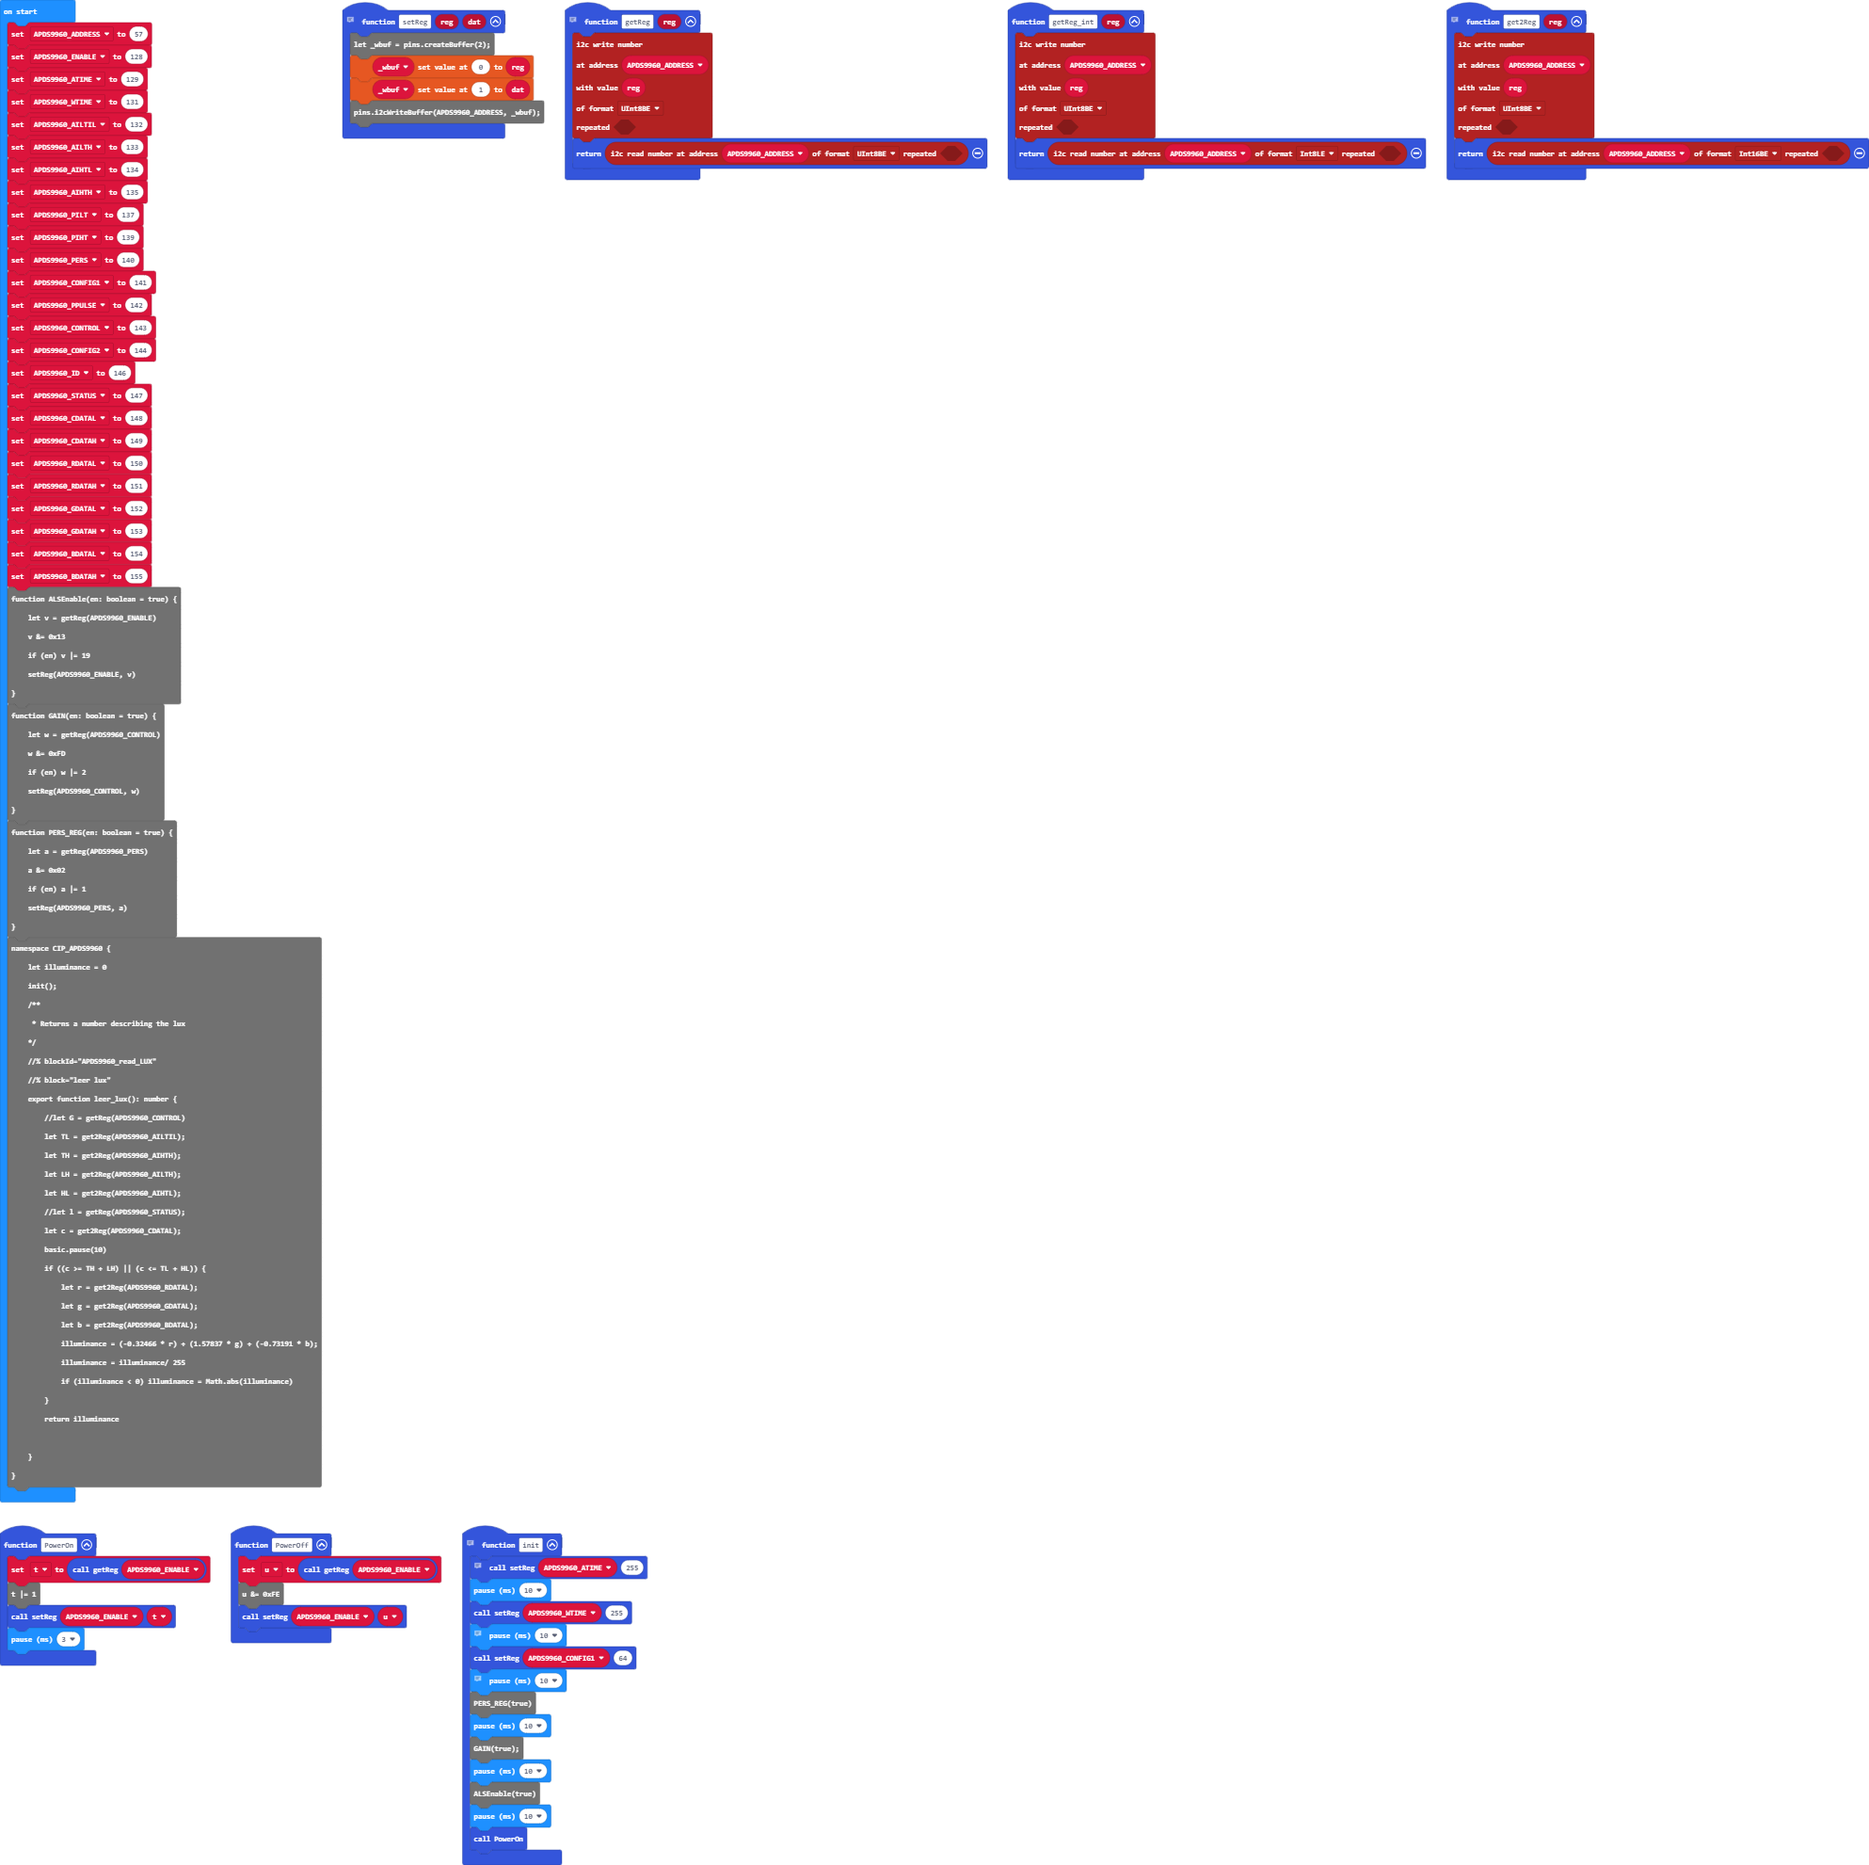
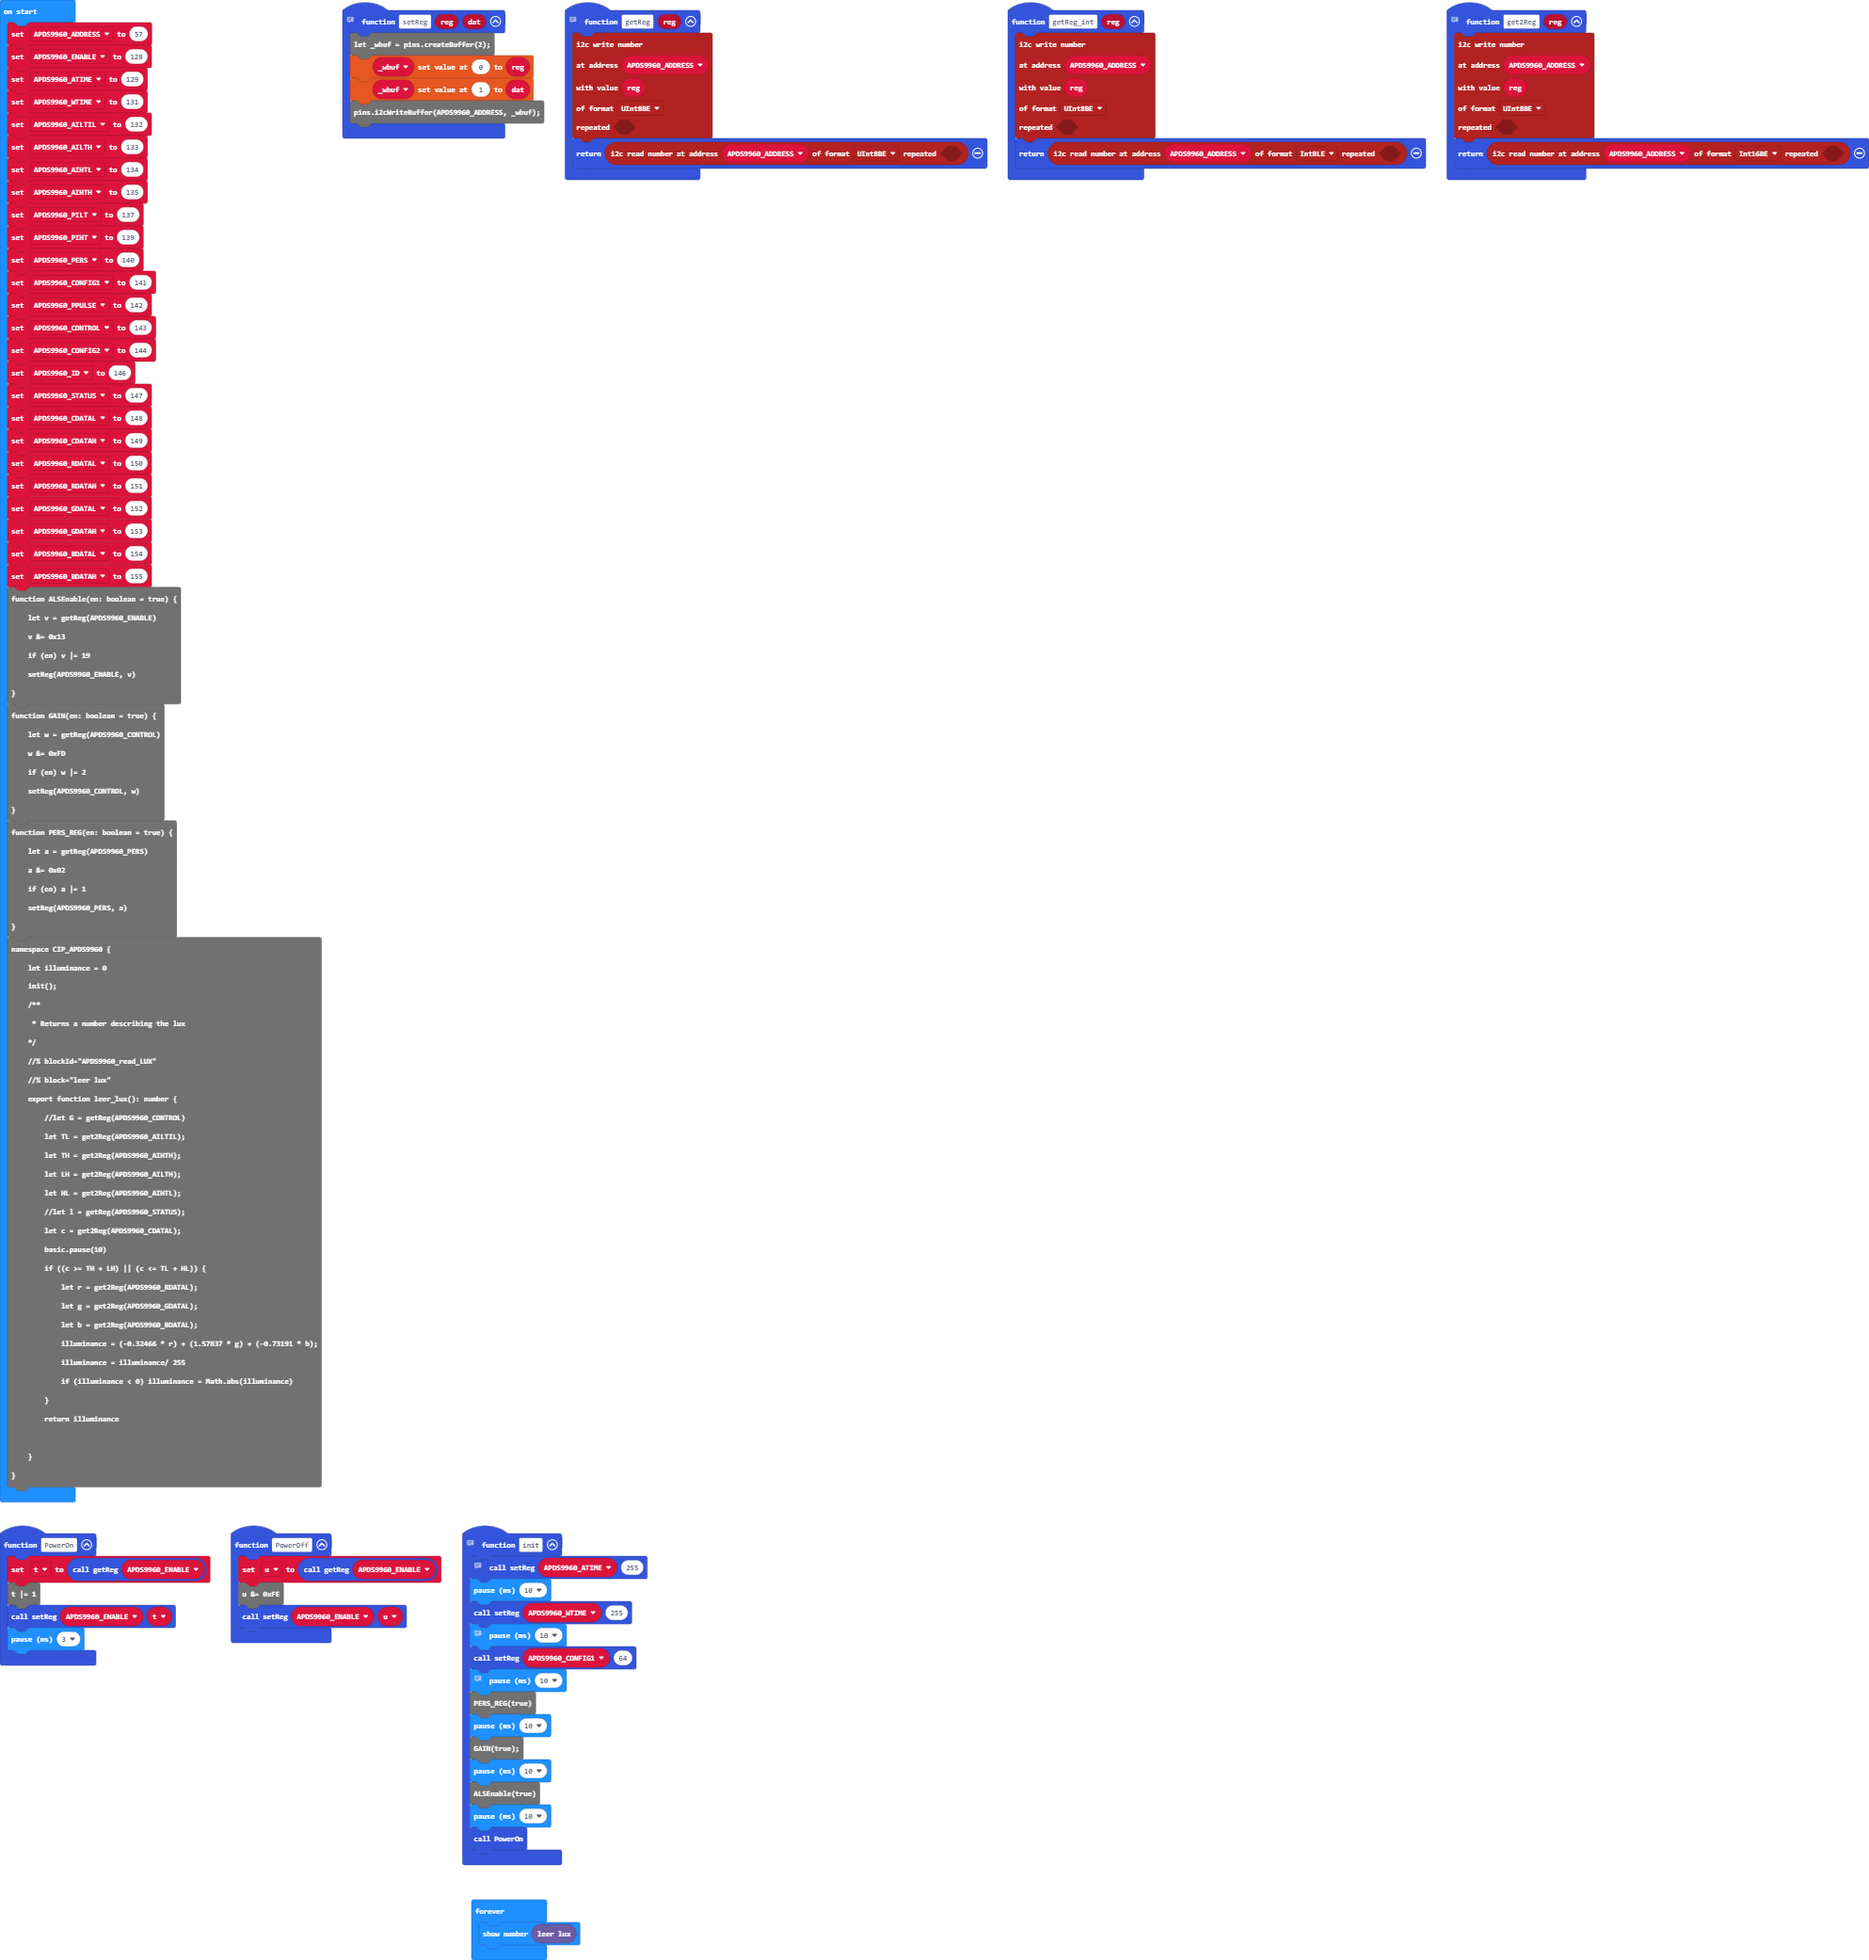
Update main.blocks, main.ts

Changed region(s): [[0.0, 0.0, 0.3434, 1.0], [0.1873, 0.0, 1.0, 0.1232], [0.0937, 0.4619, 0.1873, 0.5235]]

diff --git a/main.ts b/main.ts
@@ -1,124 +1,126 @@
-function getReg_int (reg: number) {
-    pins.i2cWriteNumber(
-    APDS9960_ADDRESS,
-    reg,
-    NumberFormat.UInt8BE,
-    false
-    )
-    return pins.i2cReadNumber(APDS9960_ADDRESS, NumberFormat.Int8LE, false)
-}
-function PowerOff () {
-    u = getReg(APDS9960_ENABLE)
-    u &= 0xFE
-setReg(APDS9960_ENABLE, u)
-}
-// WaitEnable(true)
-function init () {
-    // ATIME(256 - 8)
-    // setReg(APDS9960_ENABLE, 0)
-    setReg(APDS9960_ATIME, 255)
-    basic.pause(10)
-    setReg(APDS9960_WTIME, 255)
-    // setReg(APDS9960_PERS, 0x22)
-    basic.pause(10)
-    setReg(APDS9960_CONFIG1, 64)
-    // setReg(APDS9930_PPULSE, 8)
-    // setReg(APDS9960_CONTROL, 0x2C)
-    basic.pause(10)
-    PERS_REG(true)
-basic.pause(10)
-    GAIN(true);
-basic.pause(10)
-    ALSEnable(true)
-basic.pause(10)
-    PowerOn()
-}
-// get a reg
-function getReg (reg: number) {
-    pins.i2cWriteNumber(
-    APDS9960_ADDRESS,
-    reg,
-    NumberFormat.UInt8BE,
-    false
-    )
-    return pins.i2cReadNumber(APDS9960_ADDRESS, NumberFormat.UInt8BE, false)
-}
-// set APDS9960's reg
-function setReg (reg: number, dat: number) {
+const APDS9960_ADDRESS = 0x39
+const APDS9960_ENABLE = 0x80
+const APDS9960_ATIME = 0x81
+const APDS9960_WTIME = 0x83
+const APDS9960_AILTIL = 0x84
+const APDS9960_AILTH = 0x85
+const APDS9960_AIHTL = 0x86
+const APDS9960_AIHTH = 0x87
+const APDS9960_PILT = 0x89
+const APDS9960_PIHT = 0x8B
+const APDS9960_PERS = 0x8C
+const APDS9960_CONFIG1 = 0x8D
+const APDS9960_PPULSE = 0x8E
+const APDS9960_CONTROL = 0x8F
+const APDS9960_CONFIG2 = 0x90
+const APDS9960_ID = 0x92
+const APDS9960_STATUS = 0x93
+const APDS9960_CDATAL = 0x94
+const APDS9960_CDATAH = 0x95
+const APDS9960_RDATAL = 0x96
+const APDS9960_RDATAH = 0x97
+const APDS9960_GDATAL = 0x98
+const APDS9960_GDATAH = 0x99
+const APDS9960_BDATAL = 0x9A
+const APDS9960_BDATAH = 0x9B
+
+
+/**
+   * set APDS9960's reg
+   */
+function set_Reg_lux(reg: number, dat: number): void {
     let _wbuf = pins.createBuffer(2);
-_wbuf[0] = reg
-    _wbuf[1] = dat
+    _wbuf[0] = reg;
+    _wbuf[1] = dat;
     pins.i2cWriteBuffer(APDS9960_ADDRESS, _wbuf);
 }
-function PowerOn () {
-    t = getReg(APDS9960_ENABLE)
+
+/**
+ * get a reg
+ */
+function get_Reg_lux(reg: number): number {
+    pins.i2cWriteNumber(APDS9960_ADDRESS, reg, NumberFormat.UInt8BE);
+    return pins.i2cReadNumber(APDS9960_ADDRESS, NumberFormat.UInt8BE);
+}
+
+
+function getReg_int(reg: number): number {
+    pins.i2cWriteNumber(APDS9960_ADDRESS, reg, NumberFormat.UInt8BE);
+    return pins.i2cReadNumber(APDS9960_ADDRESS, NumberFormat.Int8LE);
+}
+
+/**
+ * get two reg, UInt16LE format
+ */
+function get2Reg_lux(reg: number): number {
+    pins.i2cWriteNumber(APDS9960_ADDRESS, reg, NumberFormat.UInt8BE);
+    return pins.i2cReadNumber(APDS9960_ADDRESS, NumberFormat.Int16BE);
+}
+
+
+function PowerOn() {
+    let t = get_Reg_lux(APDS9960_ENABLE)
     t |= 1
-setReg(APDS9960_ENABLE, t)
+    set_Reg_lux(APDS9960_ENABLE, t)
     basic.pause(3)
 }
-// get two reg, UInt16LE format
-function get2Reg (reg: number) {
-    pins.i2cWriteNumber(
-    APDS9960_ADDRESS,
-    reg,
-    NumberFormat.UInt8BE,
-    false
-    )
-    return pins.i2cReadNumber(APDS9960_ADDRESS, NumberFormat.Int16BE, false)
+
+
+function PowerOff() {
+    let t = get_Reg_lux(APDS9960_ENABLE)
+    t &= 0xFE
+    set_Reg_lux(APDS9960_ENABLE, t)
 }
-let t = 0
-let u = 0
-let APDS9960_CONFIG1 = 0
-let APDS9960_WTIME = 0
-let APDS9960_ATIME = 0
-let APDS9960_ENABLE = 0
-let APDS9960_ADDRESS = 0
-APDS9960_ADDRESS = 57
-APDS9960_ENABLE = 128
-APDS9960_ATIME = 129
-APDS9960_WTIME = 131
-let APDS9960_AILTIL = 132
-let APDS9960_AILTH = 133
-let APDS9960_AIHTL = 134
-let APDS9960_AIHTH = 135
-let APDS9960_PILT = 137
-let APDS9960_PIHT = 139
-let APDS9960_PERS = 140
-APDS9960_CONFIG1 = 141
-let APDS9960_PPULSE = 142
-let APDS9960_CONTROL = 143
-let APDS9960_CONFIG2 = 144
-let APDS9960_ID = 146
-let APDS9960_STATUS = 147
-let APDS9960_CDATAL = 148
-let APDS9960_CDATAH = 149
-let APDS9960_RDATAL = 150
-let APDS9960_RDATAH = 151
-let APDS9960_GDATAL = 152
-let APDS9960_GDATAH = 153
-let APDS9960_BDATAL = 154
-let APDS9960_BDATAH = 155
+
+
 function ALSEnable(en: boolean = true) {
-    let v = getReg(APDS9960_ENABLE)
-    v &= 0x13
-    if (en) v |= 19
-    setReg(APDS9960_ENABLE, v)
+    let t = get_Reg_lux(APDS9960_ENABLE)
+    t &= 0x13
+    if (en) t |= 19
+    set_Reg_lux(APDS9960_ENABLE, t)
 }
+
 function GAIN(en: boolean = true) {
-    let w = getReg(APDS9960_CONTROL)
-    w &= 0xFD
-    if (en) w |= 2
-    setReg(APDS9960_CONTROL, w)
+    let t = get_Reg_lux(APDS9960_CONTROL)
+    t &= 0xFD
+    if (en) t |= 2
+    set_Reg_lux(APDS9960_CONTROL, t)
 }
+
+
 function PERS_REG(en: boolean = true) {
-    let a = getReg(APDS9960_PERS)
-    a &= 0x02
-    if (en) a |= 1
-    setReg(APDS9960_PERS, a)
+    let t = get_Reg_lux(APDS9960_PERS)
+    t &= 0x02
+    if (en) t |= 1
+    set_Reg_lux(APDS9960_PERS, t)
 }
+
+function init_apds() {
+    //ATIME(256 - 8)
+    //setReg(APDS9960_ENABLE, 0)
+    set_Reg_lux(APDS9960_ATIME, 0xFF)
+    basic.pause(10)
+    set_Reg_lux(APDS9960_WTIME, 0xFF)
+    //setReg(APDS9960_PERS, 0x22)
+    basic.pause(10)
+    set_Reg_lux(APDS9960_CONFIG1, 0X40)
+    //setReg(APDS9930_PPULSE, 8)
+    //setReg(APDS9960_CONTROL, 0x2C)
+    basic.pause(10)
+    PERS_REG(true)
+    basic.pause(10)
+    GAIN(true);
+    basic.pause(10)
+    ALSEnable(true)
+    basic.pause(10)
+    PowerOn();
+    //WaitEnable(true)
+}
+
+//% color=#4c6ef5 weight=25 icon="\uf043" block="APDS9960"
 namespace CIP_APDS9960 {
     let illuminance = 0
-    init();
+    init_apds();
     /**
      * Returns a number describing the lux 
     */
@@ -126,22 +128,22 @@ namespace CIP_APDS9960 {
     //% block="leer lux"
     export function leer_lux(): number {
         //let G = getReg(APDS9960_CONTROL)
-        let TL = get2Reg(APDS9960_AILTIL);
-        let TH = get2Reg(APDS9960_AIHTH);
-        let LH = get2Reg(APDS9960_AILTH);
-        let HL = get2Reg(APDS9960_AIHTL);
+        let TL = get2Reg_lux(APDS9960_AILTIL);
+        let TH = get2Reg_lux(APDS9960_AIHTH);
+        let LH = get2Reg_lux(APDS9960_AILTH);
+        let HL = get2Reg_lux(APDS9960_AIHTL);
         //let l = getReg(APDS9960_STATUS);
-        let c = get2Reg(APDS9960_CDATAL);
+        let c = get2Reg_lux(APDS9960_CDATAL);
         basic.pause(10)
         if ((c >= TH + LH) || (c <= TL + HL)) {
-            let r = get2Reg(APDS9960_RDATAL);
-            let g = get2Reg(APDS9960_GDATAL);
-            let b = get2Reg(APDS9960_BDATAL);
+            let r = get2Reg_lux(APDS9960_RDATAL);
+            let g = get2Reg_lux(APDS9960_GDATAL);
+            let b = get2Reg_lux(APDS9960_BDATAL);
             illuminance = (-0.32466 * r) + (1.57837 * g) + (-0.73191 * b);
-            illuminance = illuminance/ 255
+            illuminance = illuminance / 255
             if (illuminance < 0) illuminance = Math.abs(illuminance)
         }
-        return illuminance
+    return illuminance
 
     }
 }
